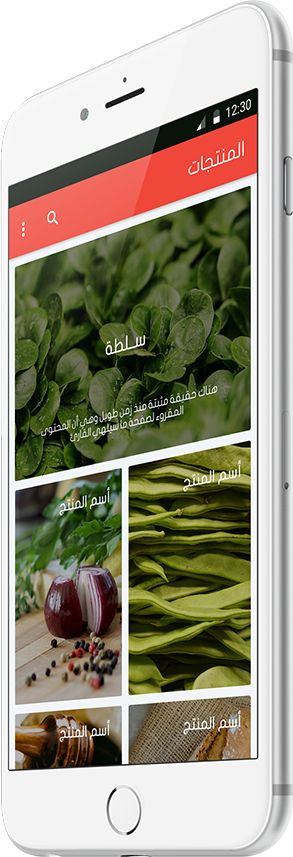
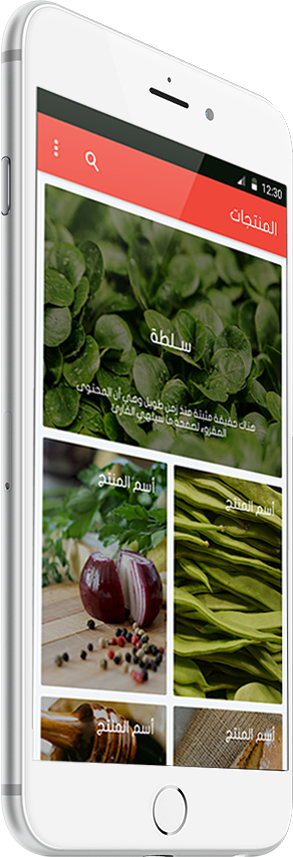
Header finished

diff --git a/landingPages/mobile/ar/index.html b/landingPages/mobile/ar/index.html
@@ -7,20 +7,65 @@
     <meta name="description" content="هذه هي صفحة هبوط لتطبيق مطعم" />
     <meta name="viewport" content="width=device-width, initial-scale=1, shrink-to-fit=no">
 
-    <link rel="stylesheet" href="asset/bootstrap/css/bootstrap.min.css" />
-    <link rel="stylesheet" href="asset/font-awesome/css/font-awesome.min.css" />
-    <link rel="stylesheet" href="asset/animate/animate.css" />
-    <link rel="stylesheet" href="css/style.css" />
+    <link rel="stylesheet" href="./asset/bootstrap/css/bootstrap.min.css" />
+    <link rel="stylesheet" href="./asset/font-awesome/css/font-awesome.min.css" />
+    <link rel="stylesheet" href="./asset/animate/animate.css" />
+    <link rel="stylesheet" href="./css/style.css" />
 </head>
 
 <body>
+    <section class="banner" id="banner">
+        <div class="overlay">
+            <div class="container">
+                <div class="row">
+                    <div class="col-lg-7 order-lg-7 col-md-7 order-md-7">
+                        <div class="app-icon wow animate__animated animate__fadeInUp">
+                            <img src="./images/icons/1.png" alt="app-icon">
+                        </div>
+                        <div class="banner-text">
+                            <h1 class="wow animate__animated animate__fadeInDown">
+                                مطعمك متاح أي وقت طعام صحي وطازج دائما </h1>
+                            <p class="wow animate__animated animate__fadeInLeft">
+                                هناك حقيقة مثبتة منذ زمن طويل وهي أن المحتوى المقروء لصفحة ما سيلهي القارئ عن التركيز على الشكل الخارجي للنص أو شكل توضع الفقرات </p>
+                            <button type="button" class="btn btn-lg text-right wow animate__animated animate__flipInY">
+                            <img src="./images/icons/play.png" alt="play-store">
+                            <p class="mr-3 mb-0">
+                                حمل التطبيق من <br/> 
+                                <span class="font-weight-bold"> 
+                                    متجر جوجل
+                                </span>
+                            </p>
+                            </button>
+                            <button type="button" class="btn btn-lg wow animate__animated animate__flipInY">
+                                <i class="fa fa-apple" aria-hidden="true"></i>
+                                <p class="mr-3 mb-0">
+                                    حمل التطبيق من <br/> 
+                                    <span class="font-weight-bold"> 
+                                        متجر أبل
+                                    </span>
+                                </p>
+                                </button>
+                        </div>
+                    </div>
+                    <div class="col-lg-4 offset-lg-1 order-lg-1 col-md-5 order-md-1">
+                        <div class="images wow animate__animated animate__fadeInUp">
+                            <img src="./images/mobile-1.png" alt="app-img">
+                        </div>
+                    </div>
+                </div>
+            </div>
+        </div>
+    </section>
 
-    <script src="asset/JavaScript/jquery-3.1.1.min.js"></script>
-    <script src="asset/bootstrap/js/bootstrap.min.js"></script>
-    <script src="asset/wow/wow.min.js"></script>
-    <script src="asset/jquery.validate/jquery.validate.min.js"></script>
-    <script src="asset/jquery.validate/messages_ar.min.js"></script>
-    <script src="js/index.js"></script>
+
+
+
+    <script src="./asset/JavaScript/jquery-3.1.1.min.js"></script>
+    <script src="./asset/bootstrap/js/bootstrap.min.js"></script>
+    <script src="./asset/wow/wow.min.js"></script>
+    <script src="./asset/jquery.validate/jquery.validate.min.js"></script>
+    <script src="./asset/jquery.validate/messages_ar.min.js"></script>
+    <script src="./js/index.js"></script>
 </body>
 
 </html>

diff --git a/landingPages/mobile/ar/css/style.css b/landingPages/mobile/ar/css/style.css
@@ -8,3 +8,125 @@ body {
     direction: rtl;
     overflow-x: hidden;
 }
+
+section.banner {
+    background-image: url(../images/bg-1.jpg);
+    background-size: cover;
+    background-position: center center;
+    background-attachment: fixed;
+    z-index: -3;
+    text-align: right;
+    position: relative;
+}
+
+section.banner .overlay {
+    background-color: rgba(239, 71, 58, 0.8);
+    z-index: -2;
+    position: relative;
+    padding-top: 90px;
+}
+
+section.banner .overlay .images {
+    position: absolute;
+    bottom: -250px;
+    right: 0px;
+    z-index: -1;
+}
+
+section.banner .overlay .images img {
+    max-width: 100%;
+}
+
+section.banner .overlay .app-icon img {
+    margin-top: 120px;
+    margin-bottom: 50px;
+}
+
+section.banner .overlay .banner-text h1 {
+    font-size: 30px;
+    color: #ffffff;
+    margin-bottom: 40px;
+}
+
+section.banner .overlay .banner-text p {
+    font-size: 18px;
+    line-height: 32px;
+    color: #ffffff;
+    margin-bottom: 40px;
+}
+
+section.banner .overlay .banner-text button {
+    margin: 40px 0;
+    background-color: #fafafa;
+    line-height: 50px;
+}
+
+section.banner .overlay .banner-text button img {
+    width: 50px;
+    vertical-align: sub;
+}
+
+section.banner .overlay .banner-text button i {
+    font-size: 50px;
+}
+
+section.banner .overlay .banner-text button p {
+    display: inline-block;
+    font-size: 15px;
+    line-height: 25px;
+    font-family: ar-font;
+    color: #232323;
+    text-align: right!important;
+}
+
+section.banner .overlay .banner-text button p span {
+    font-size: 18px;
+}
+
+section.banner .overlay .banner-text button:last-child {
+    margin-right: 20px;
+}
+
+@media (max-width:767px) and (min-width:576px) {
+    section.banner .overlay .images {
+        bottom: -500px;
+        right: 20%;
+    }
+    section.banner .overlay .app-icon img {
+        margin-top: 0px;
+        margin-bottom: 30px;
+    }
+    section.banner .overlay .banner-text {
+        margin-bottom: 350px;
+    }
+    section.banner .overlay .banner-text button {
+        padding: .5rem 1rem;
+        line-height: 40px;
+    }
+    section.banner .overlay .banner-text button img {
+        width: 40px;
+        vertical-align: sub;
+    }
+    section.banner .overlay .banner-text button i {
+        width: 40px;
+    }
+}
+
+@media (max-width:575px) {
+    section.banner .overlay .images {
+        bottom: -500px;
+        right: 5%;
+        left: 5%;
+    }
+    section.banner .overlay .app-icon img {
+        margin: 0 auto 30px;
+        display: block;
+    }
+    section.banner .overlay .banner-text {
+        margin-bottom: 350px;
+        text-align: center;
+    }
+    section.banner .overlay .banner-text button:last-child {
+        margin-right: 0px;
+    }
+}

diff --git a/landingPages/mobile/en/index.html b/landingPages/mobile/en/index.html
@@ -14,6 +14,53 @@
 </head>
 
 <body>
+    <section class="banner" id="banner">
+        <div class="overlay">
+            <div class="container">
+                <div class="row">
+                    <div class="col-lg-7 order-lg-7 col-md-7 order-md-7">
+                        <div class="app-icon  wow animate__animated animate__fadeInUp">
+                            <img src="./images/icons/1.png" alt="app-icon">
+                        </div>
+                        <div class="banner-text">
+                            <h1 class="wow animate__animated animate__fadeInDown">
+                                Your restaurant is always healthy and fresh anytime
+                            </h1>
+                            <p class="wow animate__animated animate__fadeInRight">
+                                There is a proven fact from a long time ago that the readable content of a page will not distract the reader from focusing on the external appearance of the text or the form of the paragraphs.
+                            </p>
+                            <button type="button" class="btn btn-lg text-left  wow animate__animated animate__flipInY">
+                            <img src="./images/icons/play.png" alt="play-store">
+                            <p class="ml-3 mb-0">
+                                Get the App from <br/> 
+                                <span class="font-weight-bold"> 
+                                    Play Store
+                                </span>
+                            </p>
+                            </button>
+                            <button type="button" class="btn btn-lg text-left  wow animate__animated animate__flipInY">
+                                <i class="fa fa-apple" aria-hidden="true"></i>
+                                <p class="ml-3 mb-0">
+                                    Get the App from <br/> 
+                                    <span class="font-weight-bold"> 
+                                        Apple Store
+                                    </span>
+                                </p>
+                                </button>
+                        </div>
+                    </div>
+                    <div class="col-lg-4 offset-lg-1 order-lg-1 col-md-5 order-md-1">
+                        <div class="images  wow animate__animated animate__fadeInUp">
+                            <img src="./images/mobile-1.png" alt="app-img">
+                        </div>
+                    </div>
+                </div>
+            </div>
+        </div>
+    </section>
+
+
+
 
     <script src="asset/JavaScript/jquery-3.1.1.min.js"></script>
     <script src="asset/bootstrap/js/bootstrap.min.js"></script>

diff --git a/landingPages/mobile/en/css/style.css b/landingPages/mobile/en/css/style.css
@@ -7,3 +7,122 @@ body {
     font-family: ar-font;
     overflow-x: hidden;
 }
+
+section.banner {
+    background-image: url(../images/bg-1.jpg);
+    background-size: cover;
+    background-position: center center;
+    background-attachment: fixed;
+    z-index: -3;
+    position: relative;
+}
+
+section.banner .overlay {
+    background-color: rgba(239, 71, 58, 0.8);
+    z-index: -2;
+    position: relative;
+}
+
+section.banner .overlay .images {
+    position: absolute;
+    bottom: -250px;
+    left: 0px;
+    z-index: -1;
+}
+
+section.banner .overlay .images img {
+    max-width: 100%;
+}
+
+section.banner .overlay .app-icon img {
+    margin-top: 120px;
+    margin-bottom: 50px;
+}
+
+section.banner .overlay .banner-text h1 {
+    font-size: 30px;
+    color: #ffffff;
+    margin-bottom: 40px;
+}
+
+section.banner .overlay .banner-text p {
+    font-size: 18px;
+    line-height: 32px;
+    color: #ffffff;
+    margin-bottom: 40px;
+}
+
+section.banner .overlay .banner-text button {
+    margin: 40px 0;
+    background-color: #fafafa;
+    line-height: 50px;
+}
+
+section.banner .overlay .banner-text button img {
+    width: 50px;
+    vertical-align: sub;
+}
+
+section.banner .overlay .banner-text button i {
+    font-size: 50px;
+}
+
+section.banner .overlay .banner-text button p {
+    display: inline-block;
+    font-size: 15px;
+    line-height: 25px;
+    font-family: ar-font;
+    color: #232323;
+}
+
+section.banner .overlay .banner-text button p span {
+    font-size: 18px;
+}
+
+section.banner .overlay .banner-text button:last-child {
+    margin-left: 20px;
+}
+
+@media (max-width:767px) and (min-width:576px) {
+    section.banner .overlay .images {
+        bottom: -500px;
+        left: 20%;
+    }
+    section.banner .overlay .app-icon img {
+        margin-top: 0px;
+        margin-bottom: 30px;
+    }
+    section.banner .overlay .banner-text {
+        margin-bottom: 350px;
+    }
+    section.banner .overlay .banner-text button {
+        padding: .5rem 1rem;
+        line-height: 40px;
+    }
+    section.banner .overlay .banner-text button img {
+        width: 40px;
+        vertical-align: sub;
+    }
+    section.banner .overlay .banner-text button i {
+        width: 40px;
+    }
+}
+
+@media (max-width:575px) {
+    section.banner .overlay .images {
+        bottom: -500px;
+        right: 5%;
+        left: 5%;
+    }
+    section.banner .overlay .app-icon img {
+        margin: 0 auto 30px;
+        display: block;
+    }
+    section.banner .overlay .banner-text {
+        margin-bottom: 350px;
+        text-align: center;
+    }
+    section.banner .overlay .banner-text button:last-child {
+        margin-left: 0px;
+    }
+}

diff --git a/landingPages/mobile/ar/js/index.js b/landingPages/mobile/ar/js/index.js
@@ -1,0 +1,6 @@
+$(document).ready(function() {
+    var wow = new WOW({
+        mobile: false
+    });
+    wow.init();
+});

diff --git a/landingPages/mobile/en/js/index.js b/landingPages/mobile/en/js/index.js
@@ -1,0 +1,6 @@
+$(document).ready(function() {
+    var wow = new WOW({
+        mobile: false
+    });
+    wow.init();
+});
